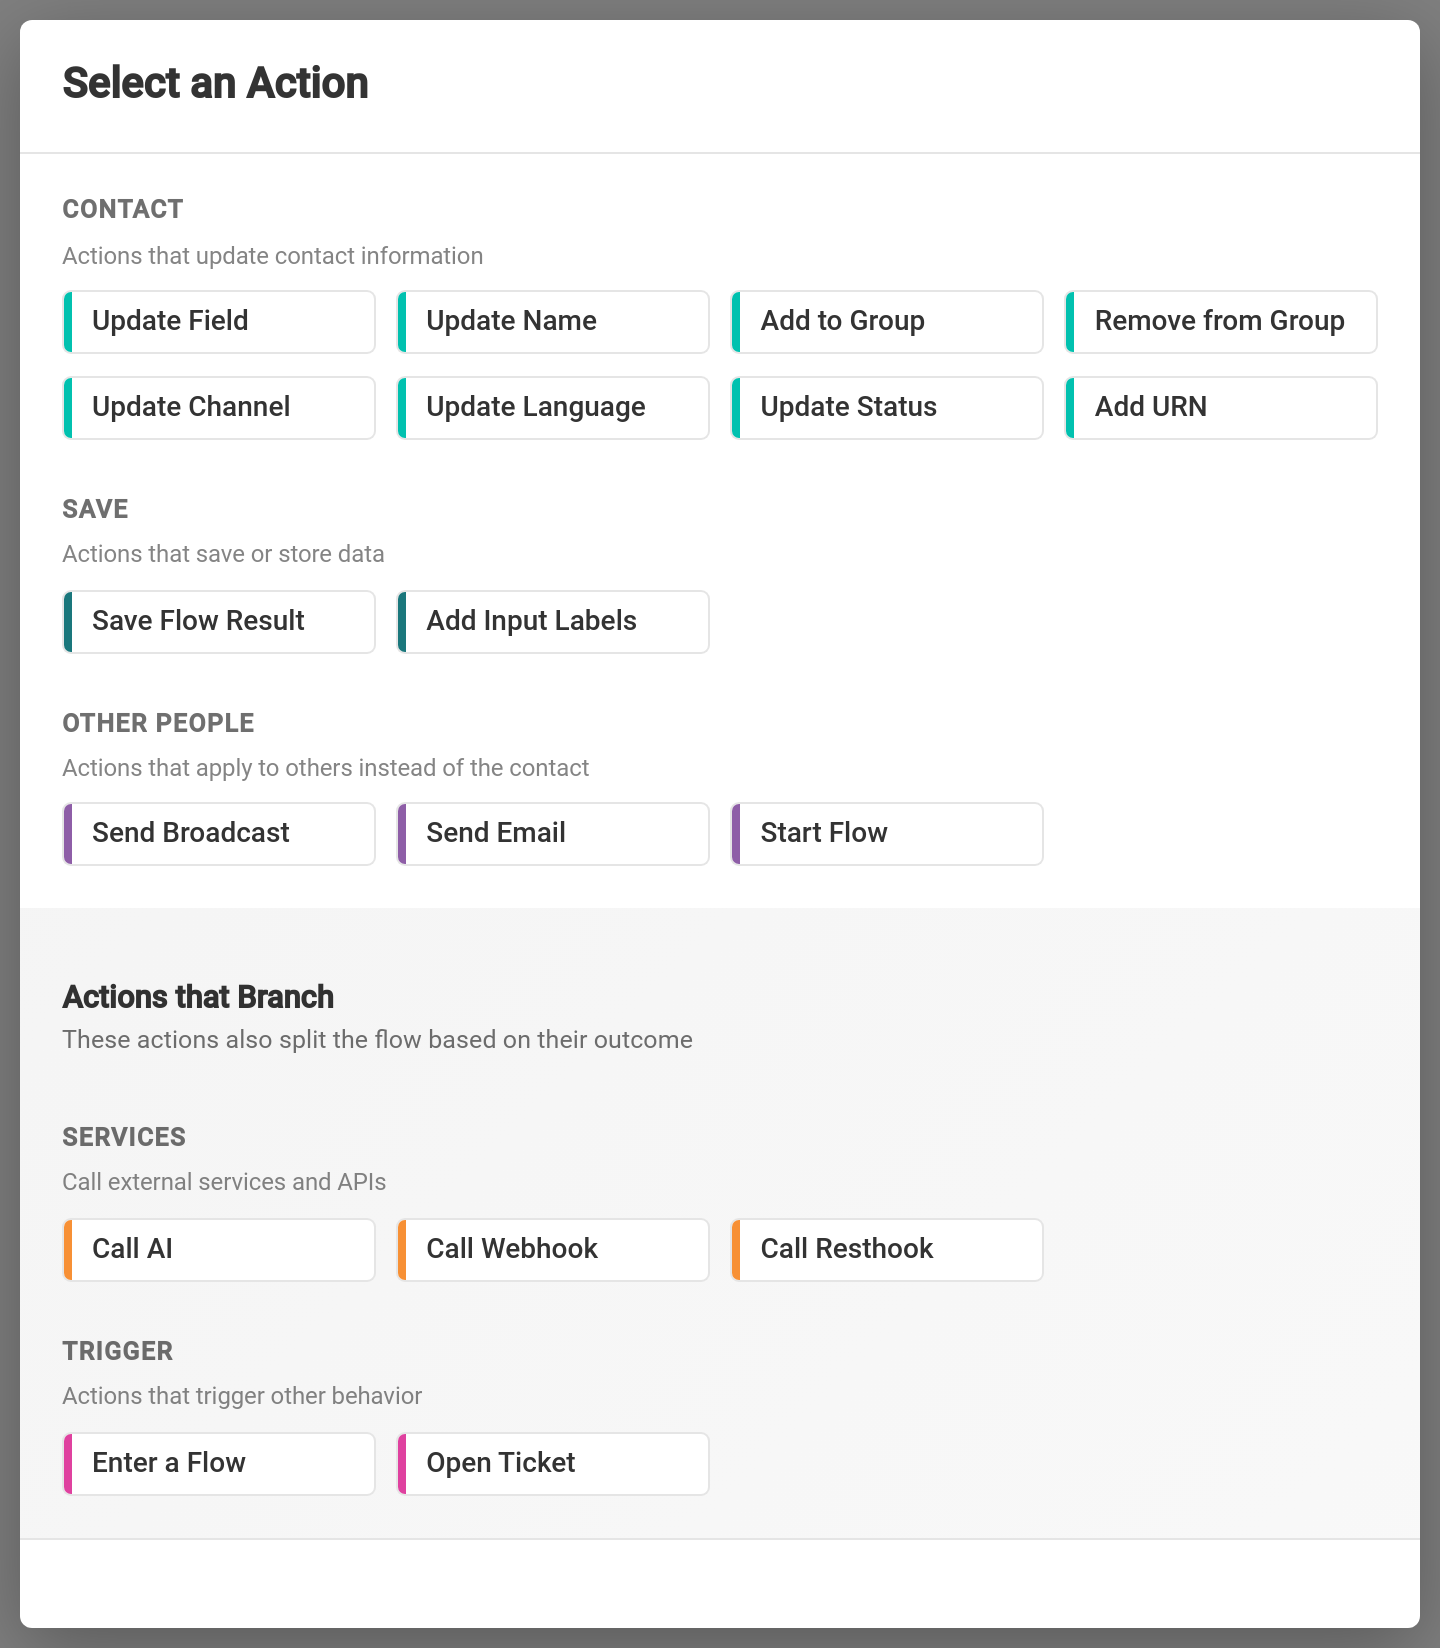
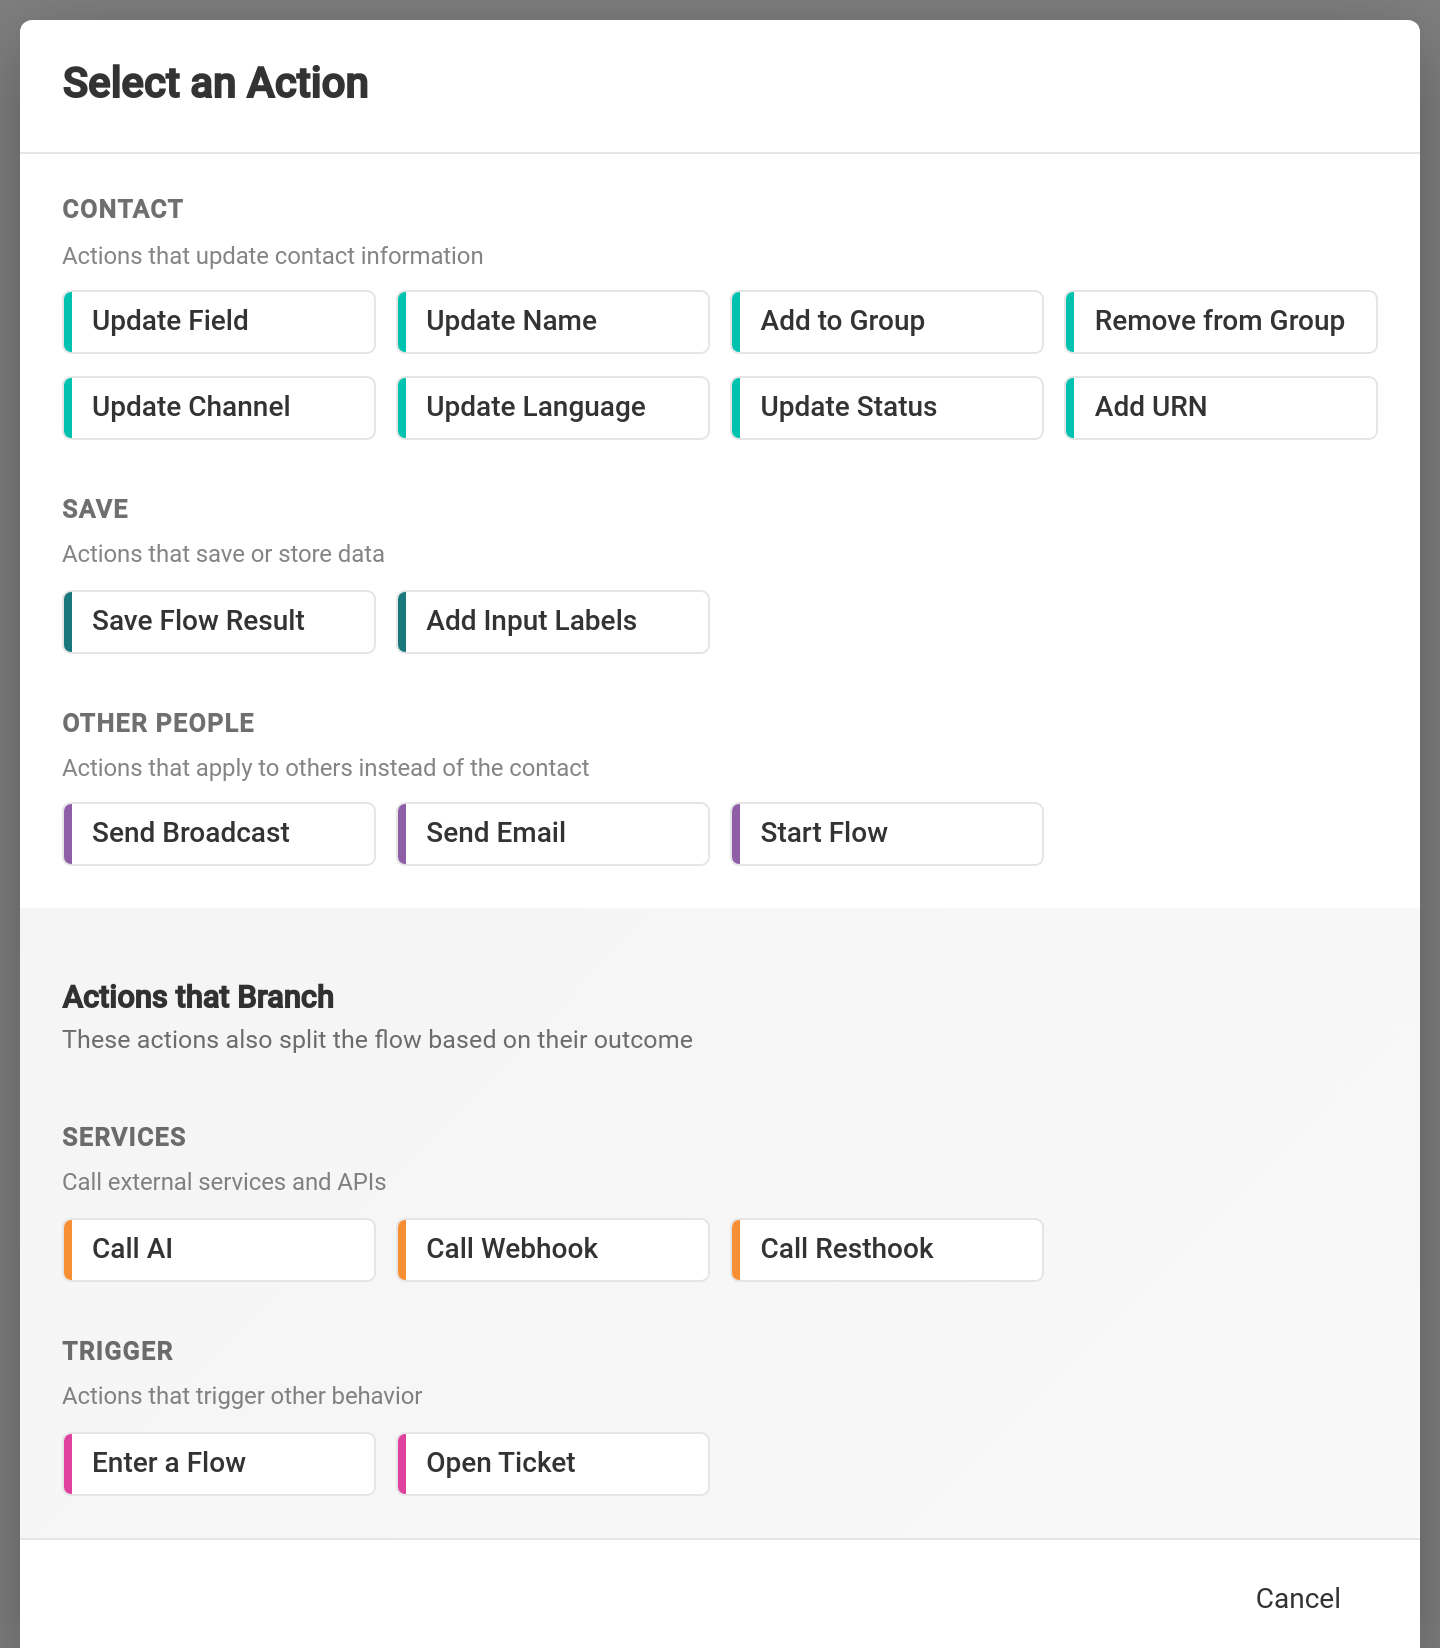
Add cancel button and Escape key support to add action dialog (#890)
* Add cancel button and Escape key support to add action dialog

The dialog now displays a visible Cancel button and closes when the user presses Escape, improving the user experience.

Changed region(s): [[0.0, 0.9593, 1.0, 1.0]]

diff --git a/src/flow/NodeTypeSelector.ts b/src/flow/NodeTypeSelector.ts
@@ -250,6 +250,12 @@ export class NodeTypeSelector extends RapidElement {
   @state()
   private clickPosition = { x: 0, y: 0 };
 
+  private handleKeyDown = (e: KeyboardEvent) => {
+    if (e.key === 'Escape') {
+      this.close();
+    }
+  };
+
   public show(
     mode: 'action' | 'split' | 'action-no-branching',
     position: { x: number; y: number }
@@ -257,11 +263,13 @@ export class NodeTypeSelector extends RapidElement {
     this.mode = mode;
     this.clickPosition = position;
     this.open = true;
+    document.addEventListener('keydown', this.handleKeyDown);
   }
 
   public close(fireCanceledEvent: boolean = true) {
     if (this.open) {
       this.open = false;
+      document.removeEventListener('keydown', this.handleKeyDown);
       // Fire canceled event so parent can clean up, but only if not from a selection
       if (fireCanceledEvent) {
         this.fireCustomEvent(CustomEventType.Canceled, {});
@@ -638,7 +646,7 @@ export class NodeTypeSelector extends RapidElement {
               `}
         </div>
         <div class="footer">
-          <temba-button @click=${this.close} secondary>Cancel</temba-button>
+          <temba-button name="Cancel" @click=${this.close} secondary></temba-button>
         </div>
       </div>
     `;
